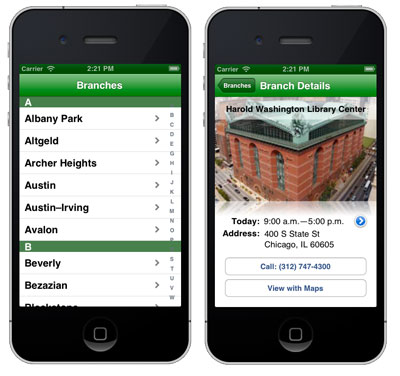
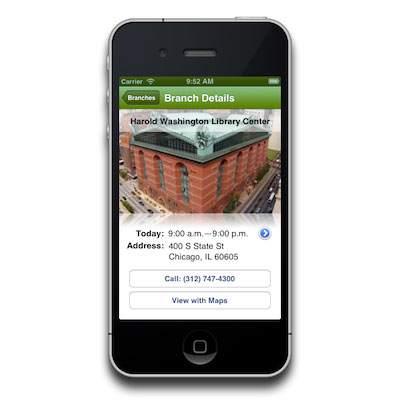
Updated iCPL screenshot and tweaked page content for it, as well as minor tweaks to Rout-O-Matic content.

diff --git a/projects/index.html b/projects/index.html
@@ -47,11 +47,11 @@
       <div class="span12">
         <div class="row-fluid">
           <div class="span6">
-            <p><img src="/img/icpl.jpg"></p>
+            <p><img src="/img/icpl.jpg" width="400" height="400" alt="Screenshot of iCPL for iOS" title="Screenshot of iCPL for iOS"></p>
           </div>
           <div class="span6">
-            <h3>iCPL App for iOS</h3>
-            <p>iCPL is an iOS app I'm working on and will be releasing in the Spring of 2013. The app serves two purposes: first, it's a way for me to teach myself how to write iOS apps using the Cocoa Touch framework. Second, it's a proof-of-concept that I am planning to present to Chicago Public Library (which has neither a mobile-friendly web site nor an app). It's fairly simple right now, but it is working. Keep your eyes on the App Store!</p>
+            <h3>iCPL for iOS</h3>
+            <p>iCPL is an app I'm working on and will be releasing in the Spring of 2013. The app serves two purposes: first, it's a way for me to teach myself how to write iOS apps using the Cocoa Touch framework. Second, it's a proof-of-concept that I am planning to present to Chicago Public Library (which has neither a mobile-friendly web site nor an app). It's fairly simple right now, but it is working. Keep your eyes on the App Store!</p>
           </div>
         </div>
       </div>
@@ -65,7 +65,7 @@
           </div>
           <div class="span6">
             <h3>Rout-O-Matic</h3>
-            <p>When I started in my current position, I was surprised to discover that the staff was printing out our daily router (a list of books requested from other branches) and separating them by subject by cutting the sheets up with scissors. In a day or two, I'd pieced together a tool which allowed the staff to print off router reports that were a lot easier on the eyes… and didn't require a pair of scissors to split up.</p>
+            <p>When I started in my current position, I was surprised to discover that the staff was printing out our daily router (a list of books requested from other branches) and separating them by subject by cutting the sheets up with scissors. In just a few days, I built a tool which allowed the staff to print off router reports that were a lot easier on the eyes… and didn't require a pair of scissors to split up.</p>
           </div>
         </div>
       </div>
